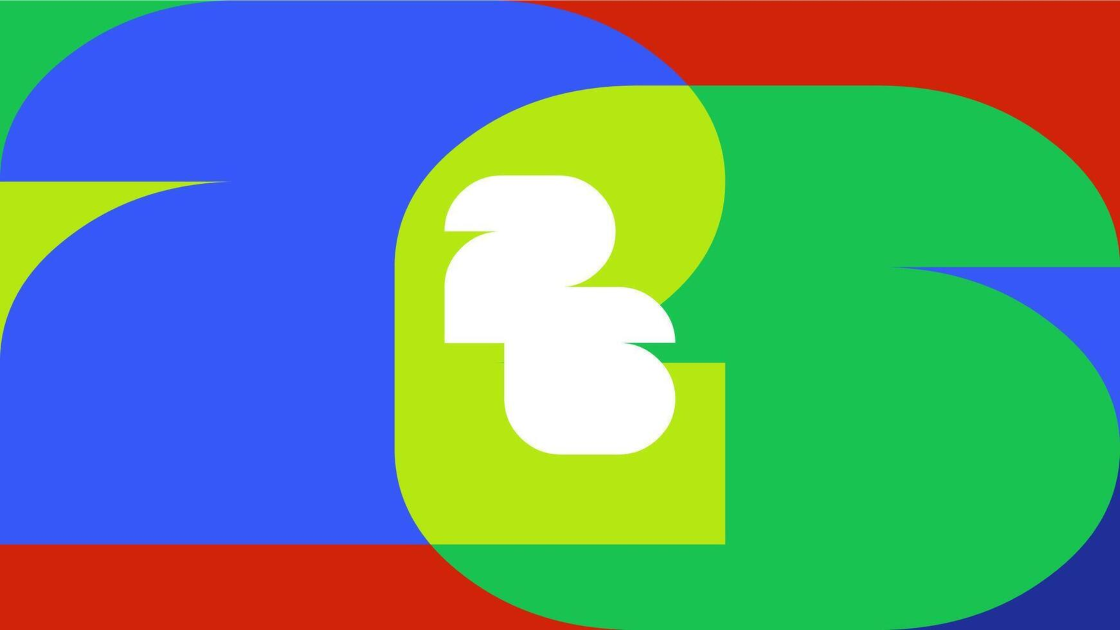
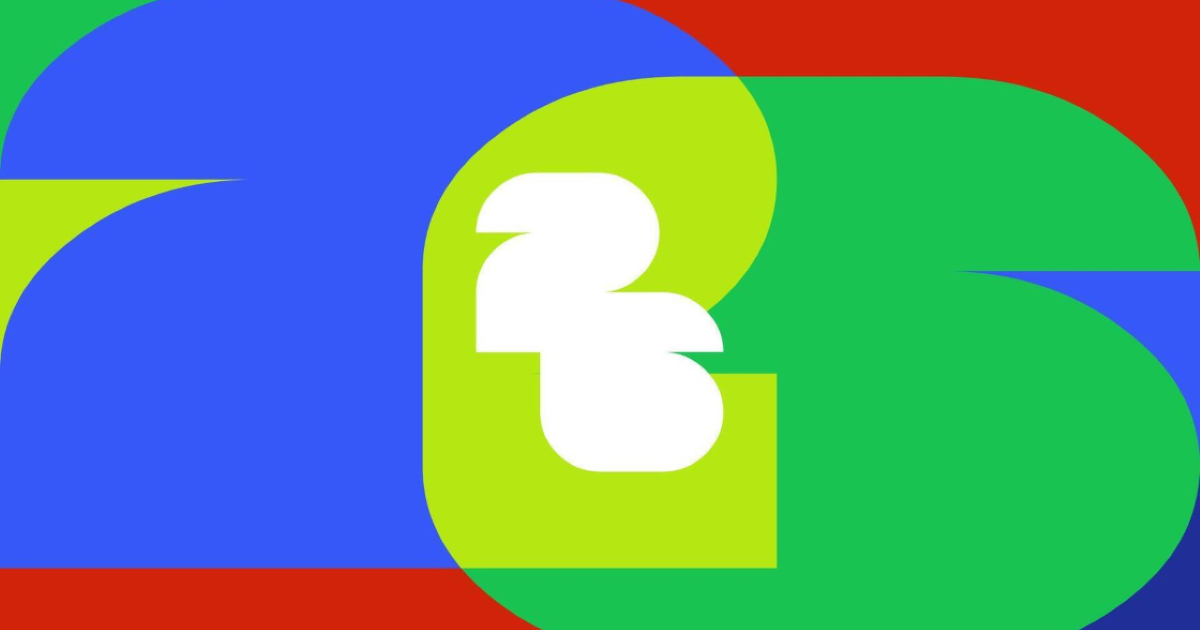
fix og image

diff --git a/app/layout.tsx b/app/layout.tsx
@@ -24,7 +24,7 @@ const archivoNarrow = Archivo_Narrow({
 export const metadata: Metadata = {
   metadataBase: new URL(siteUrl),
   title: {
-    default: "FIFA Pick'em 2026",
+    default: "FIFA Pick'em 2026 — Dự đoán World Cup, Leo Bảng Xếp Hạng",
     template: "%s | FIFA Pick'em 2026",
   },
   description:
@@ -43,7 +43,7 @@ export const metadata: Metadata = {
     images: [
       {
         url: "/og-image.png",
-        width: 1120, // ← phải đúng kích thước thật của file
+        width: 1200, // ← phải đúng kích thước thật của file
         height: 630, // ← phải đúng kích thước thật của file
         alt: "FIFA Pick'em 2026 — Dự đoán World Cup, Leo Bảng Xếp Hạng",
       },

diff --git a/app/page.tsx b/app/page.tsx
@@ -6,7 +6,7 @@ import { getServerSession } from "next-auth";
 import { redirect } from "next/navigation";
 
 export const metadata: Metadata = {
-  title: "FIFA Pick'em 2026",
+  title: "FIFA Pick'em 2026 — Dự đoán World Cup, Leo Bảng Xếp Hạng",
   alternates: {
     canonical: "/",
   },
@@ -20,7 +20,7 @@ export const metadata: Metadata = {
     images: [
       {
         url: "/og-image.png",
-        width: 1120, // ← phải đúng kích thước thật của file
+        width: 1200, // ← phải đúng kích thước thật của file
         height: 630, // ← phải đúng kích thước thật của file
         alt: "FIFA Pick'em 2026 — Dự đoán World Cup, Leo Bảng Xếp Hạng",
       },

diff --git a/proxy.ts b/proxy.ts
@@ -41,6 +41,6 @@ export default withAuth(
 
 export const config = {
   matcher: [
-    "/((?!_next/static|_next/image|favicon.ico|api/|.*\\.(?:jpg|jpeg|png|gif|webp|svg|ico|woff|woff2|ttf|otf)).*)",
+    "/((?!_next/static|_next/image|favicon.ico|api/|.*\\.(?:jpg|jpeg|png|gif|webp|svg|ico|woff|woff2|ttf|otf|txt|xml)).*)",
   ],
 };